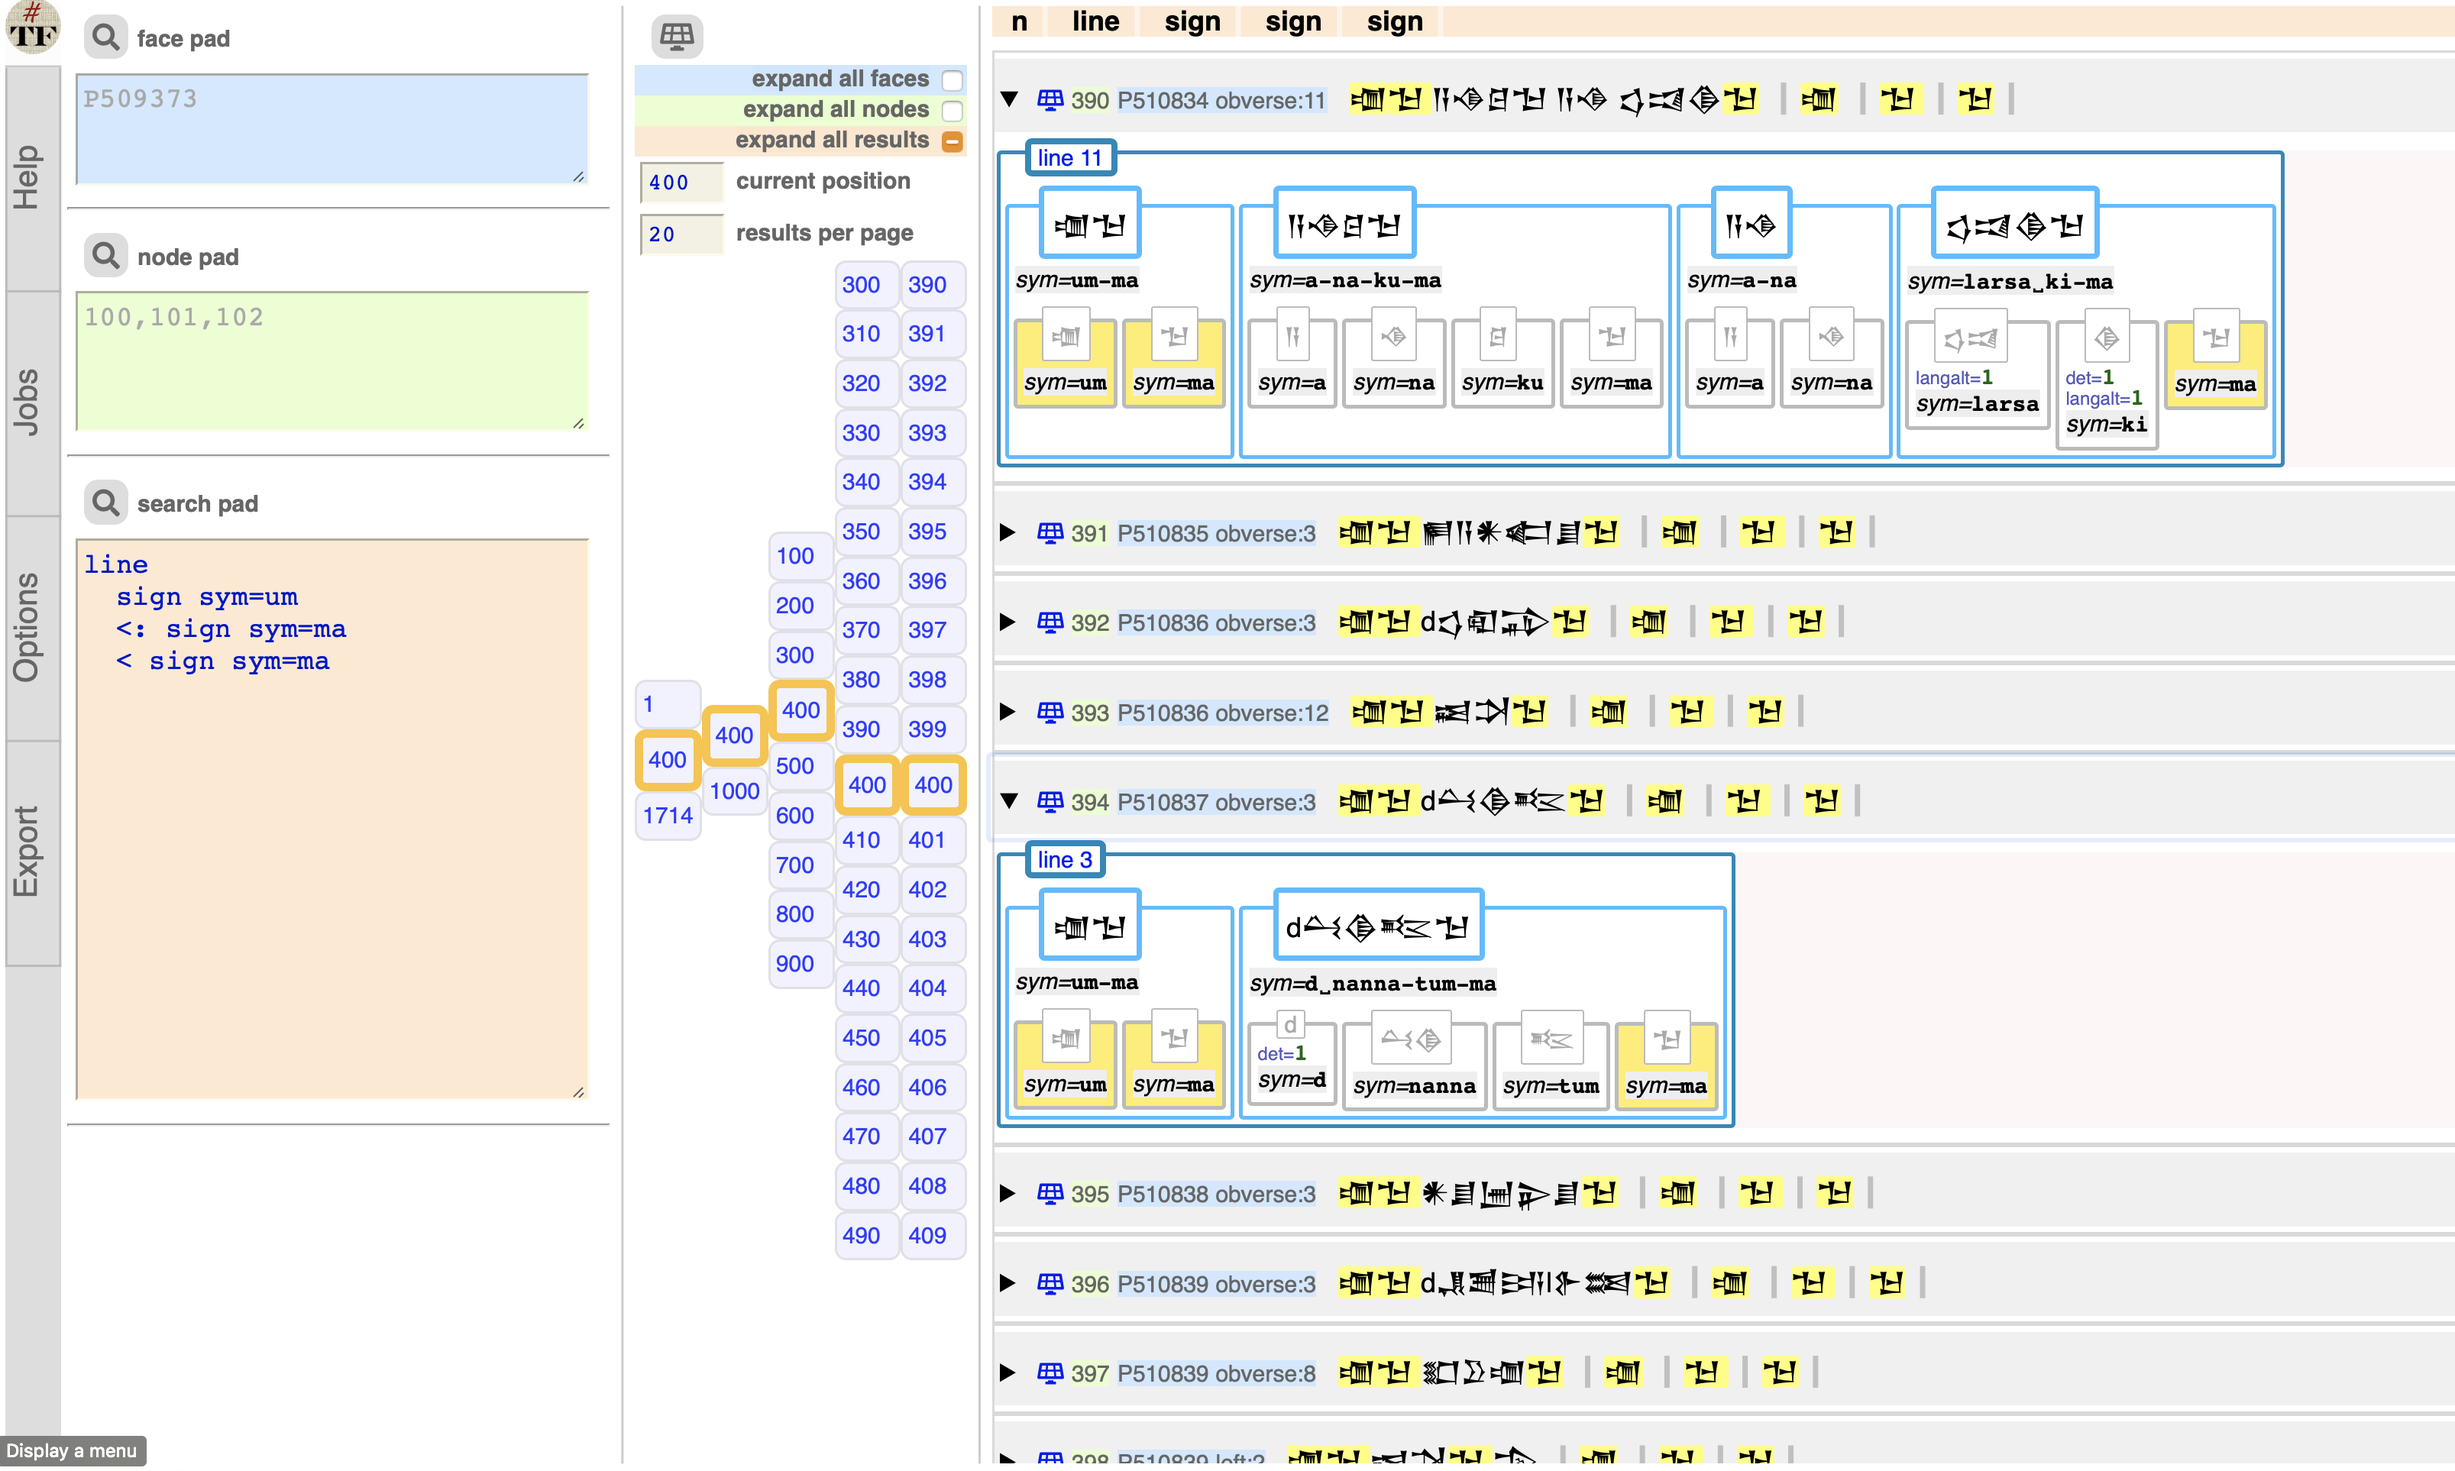
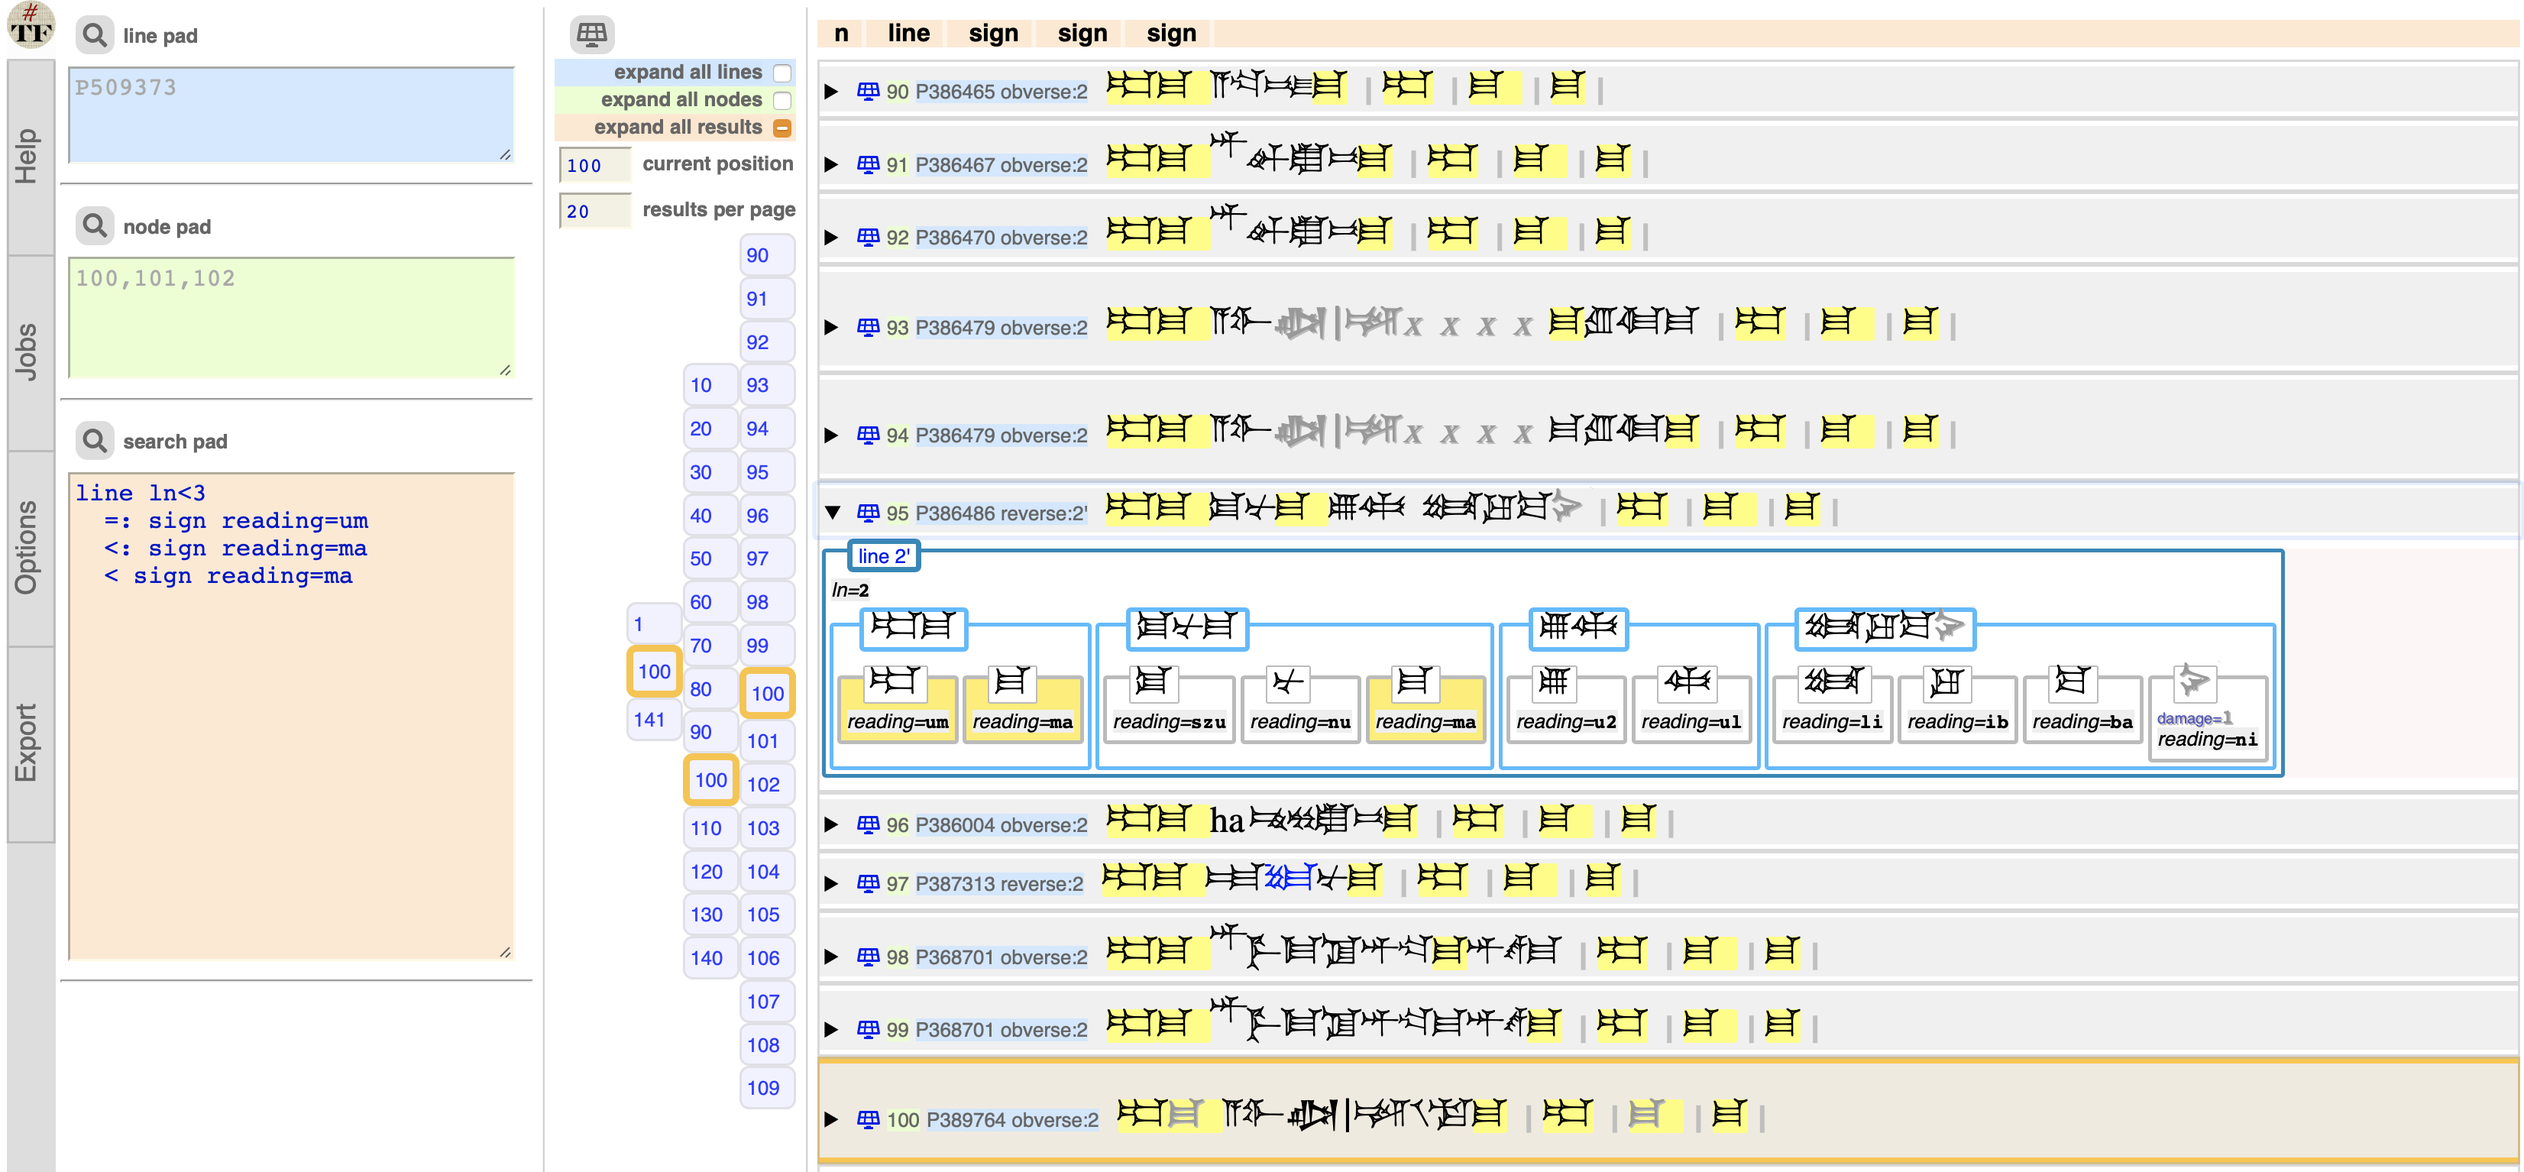
images, sign style

diff --git a/code/static/display.css b/code/static/display.css
@@ -187,7 +187,7 @@
     border-width: 0.1em;
     border-radius: 0.1em;
     font-size: small;
-    color: #aaaaaa;
+    color: #000000;
 }
 .op {
     padding:  0.5em 0.1em 0.1em 0.1em;
